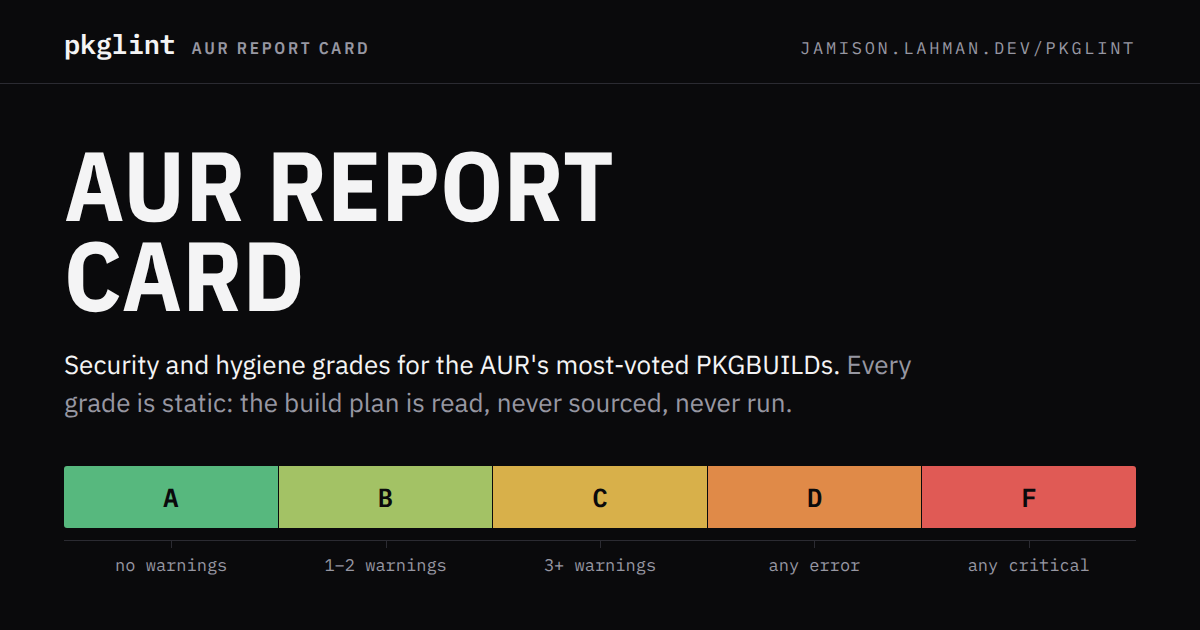
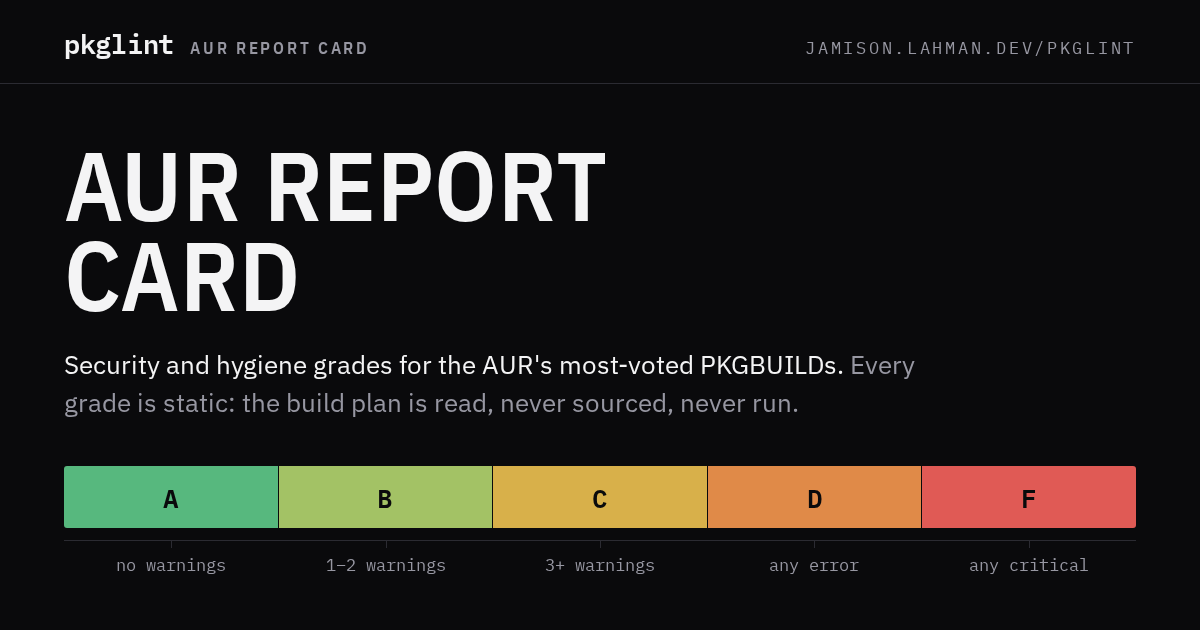
share the frontends' fonts and tokens through a design profile
image-editor, text-editor, notebook and pkglint each carried their own copy
of the Plex fonts and the same :root tokens, and the copies had started to
drift. They now come from one git-orchard profile,
.config/git-orchard/shared/design, synced into design/ in each subtree;
each stylesheet keeps only its own tokens.

notebook serves design/ beside its page and becomes a subtree so the
profile reaches it. pkglint embeds it from a design package and copies it
into the site. Its headline drops from Plex Cond 700 to the shared 600, so
the face is gone and og.png is re-cut to match.

diff --git a/site/assets/site.css b/site/assets/site.css
@@ -4,46 +4,13 @@
    margin gutter for annotations, a title block for the scan record, and color
    used only as fill (never as text) so the grade ramp survives both themes. */
 
-/* ── type ─────────────────────────────────────────────────────────────── */
-@font-face {
-  font-family: "Plex Cond";
-  src: url(fonts/plex-cond-600.woff2) format("woff2");
-  font-weight: 600; font-style: normal; font-display: swap;
-}
-@font-face {
-  font-family: "Plex Cond";
-  src: url(fonts/plex-cond-700.woff2) format("woff2");
-  font-weight: 700; font-style: normal; font-display: swap;
-}
-@font-face {
-  font-family: "Plex Sans";
-  src: url(fonts/plex-sans-var.woff2) format("woff2");
-  font-weight: 100 700; font-style: normal; font-display: swap;
-}
-@font-face {
-  font-family: "Plex Mono";
-  src: url(fonts/plex-mono-400.woff2) format("woff2");
-  font-weight: 400; font-style: normal; font-display: swap;
-}
-@font-face {
-  font-family: "Plex Mono";
-  src: url(fonts/plex-mono-600.woff2) format("woff2");
-  font-weight: 600; font-style: normal; font-display: swap;
-}
-
 /* ── tokens ───────────────────────────────────────────────────────────── */
+/* Fonts and the shared tokens come from design/design.css: --ink (charcoal
+   ground), --ink-2 (row hover, quiet bands), --rule (hairlines), --chalk
+   (primary text), --dim (secondary text, 6.9:1 on the light ground), and
+   --accent (red, lifted off the charcoal to 6.4:1, dropped for a light one). */
 :root {
-  color-scheme: dark;
-
-  --ink: #0a0a0c;          /* charcoal ground */
-  --ink-2: #141417;        /* row hover, quiet bands */
   --panel: #17171a;        /* cards, code */
-  --rule: #2b2b32;         /* hairlines */
-  --rule-soft: #1f1f24;
-  --chalk: #f4f4f5;        /* primary text */
-  --dim: #9797a2;          /* secondary text */
-  --accent: #f4635e;       /* red, lifted off the charcoal to 6.4:1 */
-  --accent-soft: rgba(244, 99, 94, 0.15);
   --shadow: 0 1px 0 rgba(255, 255, 255, 0.03);
 
   /* Grade ramp: the report-card ramp everyone already knows, green through red,
@@ -76,26 +43,18 @@
   --gutter: 6.5rem;
   --gap: 1.75rem;
   --measure: 40rem;
-
-  --mono: "Plex Mono", ui-monospace, "Cascadia Code", Menlo, monospace;
-  --sans: "Plex Sans", system-ui, -apple-system, "Segoe UI", sans-serif;
-  --cond: "Plex Cond", "Plex Sans", system-ui, sans-serif;
 }
 
 @media (prefers-color-scheme: light) {
-  :root {
-    color-scheme: light;
-    --ink: #fafafa;
-    --ink-2: #f1f1f3;
+  :root:not([data-theme="dark"]) {
     --panel: #ffffff;
-    --rule: #dcdce1;
-    --rule-soft: #e8e8ec;
-    --chalk: #18181b;
-    --dim: #57575f;          /* 6.9:1 on --ink */
-    --accent: #c0272d;       /* the same red, dropped for a light ground */
-    --accent-soft: rgba(192, 39, 45, 0.09);
     --shadow: 0 1px 0 rgba(9, 9, 11, 0.04);
   }
+}
+
+:root[data-theme="light"] {
+  --panel: #ffffff;
+  --shadow: 0 1px 0 rgba(9, 9, 11, 0.04);
 }
 
 /* ── base ─────────────────────────────────────────────────────────────── */
@@ -198,7 +157,7 @@ main { max-width: 78rem; margin: 0 auto; padding: 2.5rem 1.25rem 4rem; }
 .eyebrow a:hover { color: var(--chalk); }
 
 h1 {
-  font: 700 clamp(2.25rem, 6vw, 3.5rem)/0.98 var(--cond);
+  font: 600 clamp(2.25rem, 6vw, 3.5rem)/0.98 var(--cond);
   letter-spacing: 0.005em; text-transform: uppercase;
   margin: 0 0 0.75rem;
 }

diff --git a/site/og-card.html b/site/og-card.html
@@ -7,12 +7,13 @@
      committed PNG rather than something the generator draws, because X and the
      other preview readers will not take the SVG this site is otherwise built
      from. Rendered at exactly 1200x630 (the 1.91:1 summary_large_image size)
-     and checked in; regenerate it after a change here with:
+     and checked in; regenerate it after a change here, from the pkglint root
+     so the fonts in design/ are in reach, with:
 
-       python3 -m http.server 8000 --directory site
-       # then screenshot http://localhost:8000/og-card.html at 1200x630, e.g.
+       python3 -m http.server 8000
+       # then screenshot http://localhost:8000/site/og-card.html at 1200x630, e.g.
        npx playwright screenshot --viewport-size=1200,630 \
-         http://localhost:8000/og-card.html site/assets/og.png
+         http://localhost:8000/site/og-card.html site/assets/og.png
 
      The tokens below are copied from site.css rather than linked to it: this
      page is a fixed-size drawing, not a responsive page, and a stylesheet
@@ -20,27 +21,22 @@
 <style>
 @font-face {
   font-family: "Plex Cond";
-  src: url(assets/fonts/plex-cond-700.woff2) format("woff2");
-  font-weight: 700; font-style: normal;
-}
-@font-face {
-  font-family: "Plex Cond";
-  src: url(assets/fonts/plex-cond-600.woff2) format("woff2");
+  src: url(../design/fonts/plex-cond-600.woff2) format("woff2");
   font-weight: 600; font-style: normal;
 }
 @font-face {
   font-family: "Plex Sans";
-  src: url(assets/fonts/plex-sans-var.woff2) format("woff2");
+  src: url(../design/fonts/plex-sans-var.woff2) format("woff2");
   font-weight: 100 700; font-style: normal;
 }
 @font-face {
   font-family: "Plex Mono";
-  src: url(assets/fonts/plex-mono-600.woff2) format("woff2");
+  src: url(../design/fonts/plex-mono-600.woff2) format("woff2");
   font-weight: 600; font-style: normal;
 }
 @font-face {
   font-family: "Plex Mono";
-  src: url(assets/fonts/plex-mono-400.woff2) format("woff2");
+  src: url(../design/fonts/plex-mono-400.woff2) format("woff2");
   font-weight: 400; font-style: normal;
 }
 
@@ -83,7 +79,7 @@ body {
 .body { flex: 1; min-height: 0; padding: 56px 64px 0; }
 h1 {
   margin: 0 0 26px;
-  font: 700 98px/0.92 var(--cond);
+  font: 600 98px/0.92 var(--cond);
   letter-spacing: 0.005em; text-transform: uppercase;
 }
 .lede { margin: 0; max-width: 900px; font-size: 26px; line-height: 1.45; }

diff --git a/design/design.css b/design/design.css
@@ -1,0 +1,86 @@
+/* Shared by the no-build frontends: .config/git-orchard/shared/design in the
+   monorepo (https://github.com/jmelahman/monorepo). Edit it there; `git orchard
+   sync` copies it here. Load it before the page's own stylesheet, which adds
+   its own tokens and overrides. */
+
+@font-face {
+  font-family: "Plex Cond";
+  src: url(fonts/plex-cond-600.woff2) format("woff2");
+  font-weight: 600;
+  font-style: normal;
+  font-display: swap;
+}
+
+@font-face {
+  font-family: "Plex Sans";
+  src: url(fonts/plex-sans-var.woff2) format("woff2");
+  font-weight: 100 700;
+  font-style: normal;
+  font-display: swap;
+}
+
+@font-face {
+  font-family: "Plex Mono";
+  src: url(fonts/plex-mono-400.woff2) format("woff2");
+  font-weight: 400;
+  font-style: normal;
+  font-display: swap;
+}
+
+@font-face {
+  font-family: "Plex Mono";
+  src: url(fonts/plex-mono-600.woff2) format("woff2");
+  font-weight: 600;
+  font-style: normal;
+  font-display: swap;
+}
+
+:root {
+  color-scheme: dark;
+  --ink: #0a0a0c;
+  --ink-2: #141417;
+  --rule: #2b2b32;
+  --rule-soft: #1f1f24;
+  --chalk: #f4f4f5;
+  --dim: #9797a2;
+  --accent: #f4635e;
+  --accent-soft: rgb(244 99 94 / 0.15);
+  --on-accent: #0a0a0c;
+
+  --control: 2.125rem;
+  --ease-out: cubic-bezier(0.23, 1, 0.32, 1);
+
+  --mono: "Plex Mono", ui-monospace, "Cascadia Code", Menlo, monospace;
+  --sans: "Plex Sans", system-ui, -apple-system, "Segoe UI", sans-serif;
+  --cond: "Plex Cond", "Plex Sans", system-ui, sans-serif;
+}
+
+/* Light when the system is, unless dark was chosen; and when chosen. A page
+   with no theme switch never sets data-theme and just follows the system. */
+@media (prefers-color-scheme: light) {
+  :root:not([data-theme="dark"]) {
+    color-scheme: light;
+    --ink: #fafafa;
+    --ink-2: #f1f1f3;
+    --rule: #dcdce1;
+    --rule-soft: #e8e8ec;
+    --chalk: #18181b;
+    --dim: #57575f;
+    --accent: #c0272d;
+    --accent-soft: rgb(192 39 45 / 0.09);
+    --on-accent: #fafafa;
+  }
+}
+
+:root[data-theme="light"] {
+  color-scheme: light;
+  --ink: #fafafa;
+  --ink-2: #f1f1f3;
+  --rule: #dcdce1;
+  --rule-soft: #e8e8ec;
+  --chalk: #18181b;
+  --dim: #57575f;
+  --accent: #c0272d;
+  --accent-soft: rgb(192 39 45 / 0.09);
+  --on-accent: #fafafa;
+}

diff --git a/site/templates/base.html b/site/templates/base.html
@@ -8,6 +8,7 @@
      font-display:swap, and Chromium reports same-origin font preloads as
      unused even when they are the only fetch. A false warning on every page
      costs more here than the millisecond it buys. */}}
+<link rel="stylesheet" href="{{.Root}}design/design.css?v={{.Ver}}">
 <link rel="stylesheet" href="{{.Root}}assets/site.css?v={{.Ver}}">
 {{/* Declaring the icon is also how the /favicon.ico request is avoided: without
      a link the browser asks for one on every page and takes a 404. */}}

diff --git a/site/render.go b/site/render.go
@@ -16,6 +16,7 @@ import (
 	"strings"
 	"time"
 
+	"github.com/jmelahman/pkglint/design"
 	"github.com/jmelahman/pkglint/internal/rules"
 )
 
@@ -398,29 +399,36 @@ func renderSite(out string, results []siteResult) error {
 	return nil
 }
 
-// copyAssets writes the embedded stylesheet, script, and fonts under out and
-// returns a short content hash of the two text assets, used to bust caches.
+// copyAssets writes the embedded stylesheets, script, and fonts under out,
+// the site's own under assets/ and the shared ones under design/, and returns
+// a short content hash of the text assets, used to bust caches.
 func copyAssets(out string) (string, error) {
 	sum := sha256.New()
-	err := fs.WalkDir(assetFS, "assets", func(p string, d fs.DirEntry, err error) error {
+	for _, src := range []struct {
+		fsys     fs.FS
+		root, to string // walk root in fsys, and the directory under out it lands in
+	}{{assetFS, "assets", "assets"}, {design.FS, ".", "design"}} {
+		err := fs.WalkDir(src.fsys, src.root, func(p string, d fs.DirEntry, err error) error {
+			if err != nil {
+				return err
+			}
+			rel, _ := filepath.Rel(src.root, p)
+			dst := filepath.Join(out, src.to, filepath.FromSlash(rel))
+			if d.IsDir() {
+				return os.MkdirAll(dst, 0o755)
+			}
+			b, err := fs.ReadFile(src.fsys, p)
+			if err != nil {
+				return err
+			}
+			if strings.HasSuffix(p, ".css") || strings.HasSuffix(p, ".js") {
+				sum.Write(b)
+			}
+			return os.WriteFile(dst, b, 0o644)
+		})
 		if err != nil {
-			return err
+			return "", err
 		}
-		dst := filepath.Join(out, filepath.FromSlash(p))
-		if d.IsDir() {
-			return os.MkdirAll(dst, 0o755)
-		}
-		b, err := assetFS.ReadFile(p)
-		if err != nil {
-			return err
-		}
-		if strings.HasSuffix(p, ".css") || strings.HasSuffix(p, ".js") {
-			sum.Write(b)
-		}
-		return os.WriteFile(dst, b, 0o644)
-	})
-	if err != nil {
-		return "", err
 	}
 	return hex.EncodeToString(sum.Sum(nil))[:8], nil
 }

diff --git a/site/render_test.go b/site/render_test.go
@@ -3,6 +3,7 @@ package main
 import (
 	"os"
 	"path/filepath"
+	"regexp"
 	"strings"
 	"testing"
 
@@ -500,5 +501,45 @@ func TestRenderSingleRepositoryHasNoBreakdown(t *testing.T) {
 	// A result with no repository is an AUR one, and says so in the column.
 	if !strings.Contains(string(b), `data-repo="aur"`) {
 		t.Error("index.html does not default an unlabelled result to the AUR")
+	}
+}
+
+// TestRenderSharedDesign covers the fonts and tokens shared with the other
+// frontends (design/). They live outside assets/, so a page that drops the
+// link, or a face design.css names that never reaches the output, still
+// renders: only in the fallback font, and without the base colors.
+func TestRenderSharedDesign(t *testing.T) {
+	out := t.TempDir()
+	for _, sub := range []string{"rules", "package", "badge"} {
+		if err := os.MkdirAll(filepath.Join(out, sub), 0o755); err != nil {
+			t.Fatal(err)
+		}
+	}
+	if err := renderSite(out, nil); err != nil {
+		t.Fatalf("renderSite: %v", err)
+	}
+
+	css, err := os.ReadFile(filepath.Join(out, "design", "design.css"))
+	if err != nil {
+		t.Fatal(err)
+	}
+	urls := regexp.MustCompile(`url\(([^)]+)\)`).FindAllStringSubmatch(string(css), -1)
+	if len(urls) == 0 {
+		t.Fatal("design.css declares no font faces")
+	}
+	for _, m := range urls {
+		if _, err := os.Stat(filepath.Join(out, "design", filepath.FromSlash(m[1]))); err != nil {
+			t.Errorf("design.css loads %s, which is not in the output: %v", m[1], err)
+		}
+	}
+
+	b, err := os.ReadFile(filepath.Join(out, "index.html"))
+	if err != nil {
+		t.Fatal(err)
+	}
+	page := string(b)
+	design, site := strings.Index(page, `design/design.css?v=`), strings.Index(page, `assets/site.css?v=`)
+	if design < 0 || site < 0 || design > site {
+		t.Errorf("index.html should link design/design.css before assets/site.css (at %d and %d)", design, site)
 	}
 }

diff --git a/design/embed.go b/design/embed.go
@@ -1,0 +1,9 @@
+// Package design embeds the fonts and tokens pkglint's site shares with the
+// monorepo's other frontends. Everything here but this file is synced from
+// .config/git-orchard/shared/design in the monorepo; edit it there.
+package design
+
+import "embed"
+
+//go:embed design.css fonts
+var FS embed.FS
